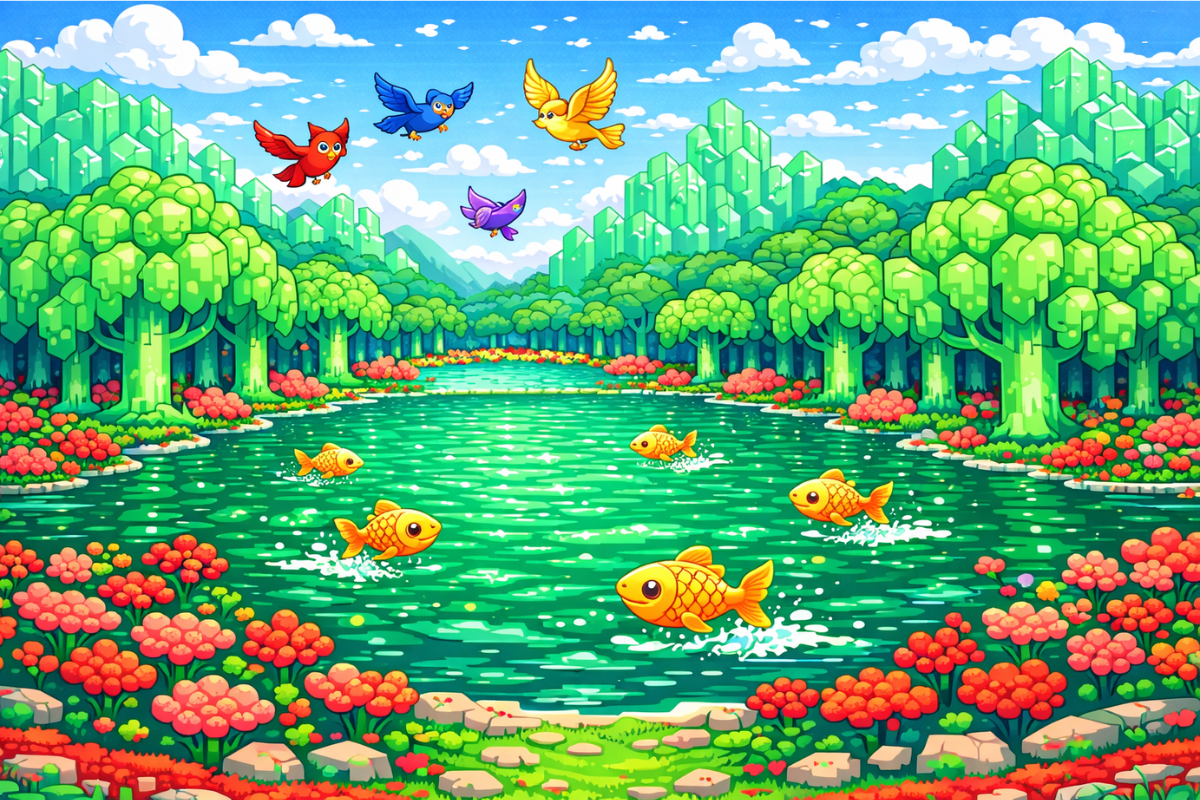
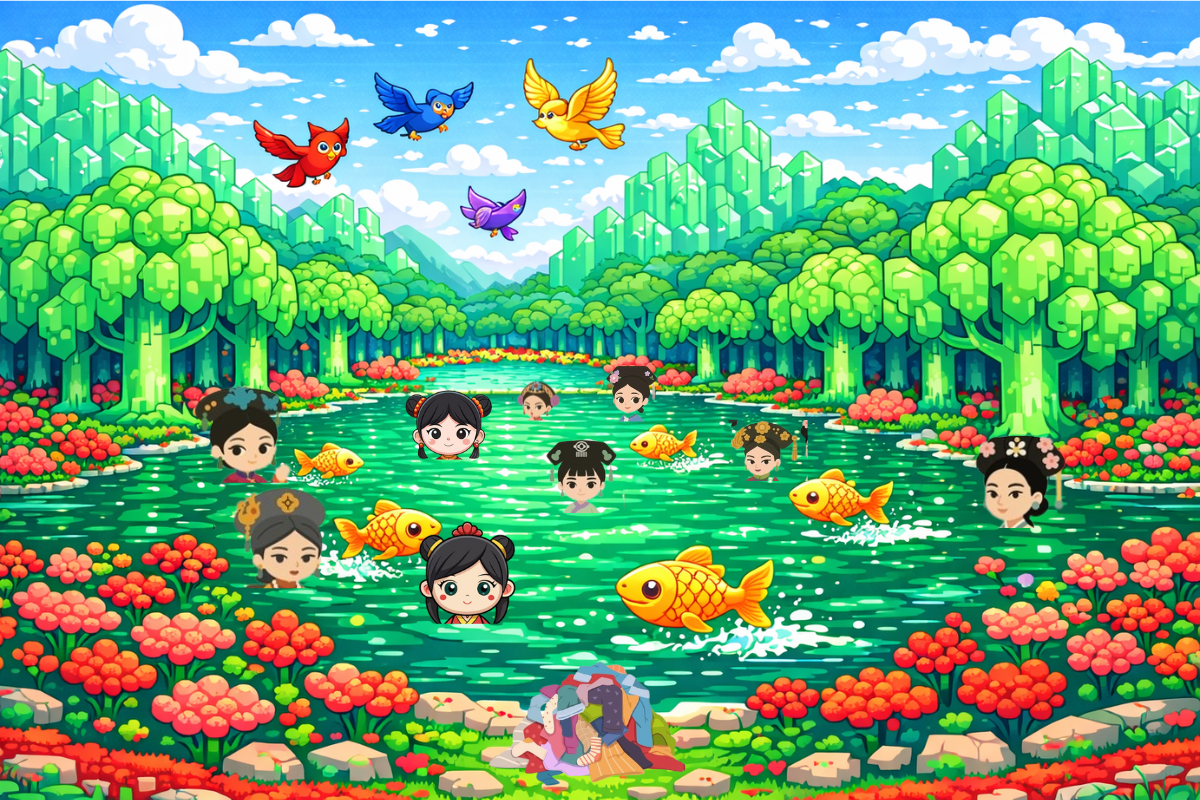
Worked on it even more to finish code.

diff --git a/src/culminatingculturestory/MySketch.java b/src/culminatingculturestory/MySketch.java
@@ -18,10 +18,10 @@ public class MySketch extends PApplet {
     boolean gameOver = false;
     boolean gameWin = false;
     int gameStartTime;
-    int winTime = 30000; 
+    int winTime = 1000; 
     
-    
-    private PImage image; // image of the person
+    // Declaring variables for me to use in code
+    private PImage image; // PImages will allow me to use images without creating an object
     private PImage imagetext;
     private PImage invsbox;
     private PImage cowFlippedImg;
@@ -32,22 +32,35 @@ public class MySketch extends PApplet {
     private PImage sky;
     private PImage forest;
     private PImage restartButton;
-    int stage = 0;
-    private boolean cowFlipped = false;
-    private boolean showCowSpeech = false;
+    private PImage textboxGame;
+    private PImage textGameWin;
+    private PImage forestClothesGone;
+    private PImage cowSpeechImg4;
+    private PImage cowSpeechImg4;
+    private PImage cowSpeechImg4;
+    private PImage cowSpeechImg4;
+    private PImage cowSpeechImg4;
+    int stage = 0; // Variable for me scenes
+    private boolean cowFlipped = false; // Boolean variable to allow me to flip cow
+    private boolean showCowSpeech = false; // Boolean variable to show cow speaking
     private boolean showInfo = false; 
+    private boolean showTextGame = false;
+    private boolean gameStarted = false;
     private Person person; // declare a person object
     private Person invsbox2;
     private Person cow;
     private Person ridingCow;
+    private Person ridingCowTwo;
     
     
     public void settings() {
+        // Creates the windows size
         size(1200, 800);
         
     }
     
     public void setup() {
+        // Loads the images into variable for me to use
         this.image = this.loadImage("images/scene.png");
         this.imagetext = this.loadImage("images/tbox.png");
         this.invsbox = this.loadImage("images/nextscenebox.png");
@@ -58,13 +71,19 @@ public class MySketch extends PApplet {
         this.sky = this.loadImage("images/scene2.png");
         this.forest = this.loadImage("images/scene3.png");
         this.restartButton = this.loadImage("images/restart.png");
+        this.textboxGame = this.loadImage("images/tboxgame.png");
+        this.textGameWin = this.loadImage("images/textForest.png");
+        this.forestClothesGone = this.loadImage("images/forestNoClothes.png");
+        this.cowSpeechImg4 = this.loadImage("images/cowSpeech4.png");
         background(255); // set the background color to white
-        // create a person object in the center of the screen
+        // creating person objects for dectections and other important things
         person = new Person(this, 200, 600, "Mr. Loo", 99, "images/herdman.png"); 
-        ridingCow = new Person(this, 200, 600, "BuddyCow", 99, "images/manRidingCow.png");
+        ridingCow = new Person(this, 300, 500, "BuddyCow", 99, "images/manRidingCow.png");
+        ridingCowTwo = new Person(this, 100, 600, "BuddyCow", 99, "images/ridingcownormal.png");
         invsbox2 = new Person(this, 1200, 0, "Scene", 99, "images/nextscenebox.png"); 
         cow = new Person(this, 800, 600, "Buddy", 99, "images/cow.png"); 
         
+        // Used for game
         for (int i = 0; i < ballX.length; i++) {
             ballX[i] = random(width);
             ballY[i] = random(-800, 0);
@@ -113,10 +132,13 @@ public class MySketch extends PApplet {
         }else if (stage == 2){
             background(255);
             this.image(sky, 0, 0);
-
             
             
-            if (!gameOver && !gameWin) {
+            if (stage == 2 && !gameStarted) {
+                this.image(textboxGame, 150, 100);        
+            }
+            
+            if(!gameOver && gameStarted){
                 ridingCow.draw();
                 updateBalls();
                 checkWin();
@@ -129,10 +151,17 @@ public class MySketch extends PApplet {
             if (gameWin) {
                 stage = 3;
             }
-        } else if(stage ==3){
+        } else if(stage == 3){
             background(255);
             this.image(forest, 0, 0);
-            ridingCow.draw();
+            ridingCowTwo.draw();
+            this.image(textGameWin, 150, 100);   
+            this.image(cowSpeechImg4, 120, 450);
+        } else if(stage == 4){
+            background(255);
+            this.image(forestClothesGone, 0, 0);
+            ridingCowTwo.draw();
+            
         }
         
     }
@@ -141,15 +170,19 @@ public class MySketch extends PApplet {
         if (keyCode == LEFT) {
             person.move(-10, 0); // move the person to the left when the left arrow key is pressed
             ridingCow.move(-10, 0);
+            ridingCowTwo.move(-10, 0);
         } else if (keyCode == RIGHT) {
             person.move(10, 0); // move the person to the right when the right arrow key is pressed
             ridingCow.move(10, 0);
+            ridingCowTwo.move(10, 0);
         } else if (keyCode == UP) {
             person.move(0, -10); // move the person up when the up arrow key is pressed
             ridingCow.move(0, -10);
+            ridingCowTwo.move(0, -10);
         } else if (keyCode == DOWN) {
             person.move(0, 10); // move the person down when the down arrow key is pressed
             ridingCow.move(0, 10);
+            ridingCowTwo.move(0, 10);
         }
     }
     
@@ -193,9 +226,22 @@ public class MySketch extends PApplet {
             if (mouseX >= cowX && mouseX <= cowX + cowW &&
                 mouseY >= cowY && mouseY <= cowY + cowH) {
                 stage = 2;
+                   
+                gameStarted = false;
                 
+            }
+        }
+        
+        if (stage == 2 && !gameStarted){
+            int textGameX = 150;
+            int textGameY = 100;
+            int textGameW = 900;
+            int textGameH = 150;
+            
+            if (mouseX >= textGameX && mouseX <= textGameX + textGameW &&
+                mouseY >= textGameY && mouseY <= textGameY + textGameH) {
                 
-                
+                gameStarted = true;
                 gameOver = false;
                 gameWin = false;
                 gameStartTime = millis();
@@ -220,6 +266,7 @@ public class MySketch extends PApplet {
                 mouseY >= restartY && mouseY <= restartY + restartH) {
 
                 // Reset dodge game
+                gameStarted = false;
                 gameOver = false;
                 gameWin = false;
                 gameStartTime = millis();
@@ -231,6 +278,17 @@ public class MySketch extends PApplet {
                     ballY[i] = random(-800, 0);
                     ballSpeed[i] = random(4, 8);
                 }
+            }
+        }
+        if (stage == 3){
+            int clothesX = 510;
+            int clothesY = 660;
+            int clothesW = 160;
+            int clothesH = 100;
+            
+            if (mouseX >= clothesX && mouseX <= clothesX + clothesW &&
+                mouseY >= clothesY && mouseY <= clothesY + clothesH) {
+                stage = 4;
             }
         }
     }
